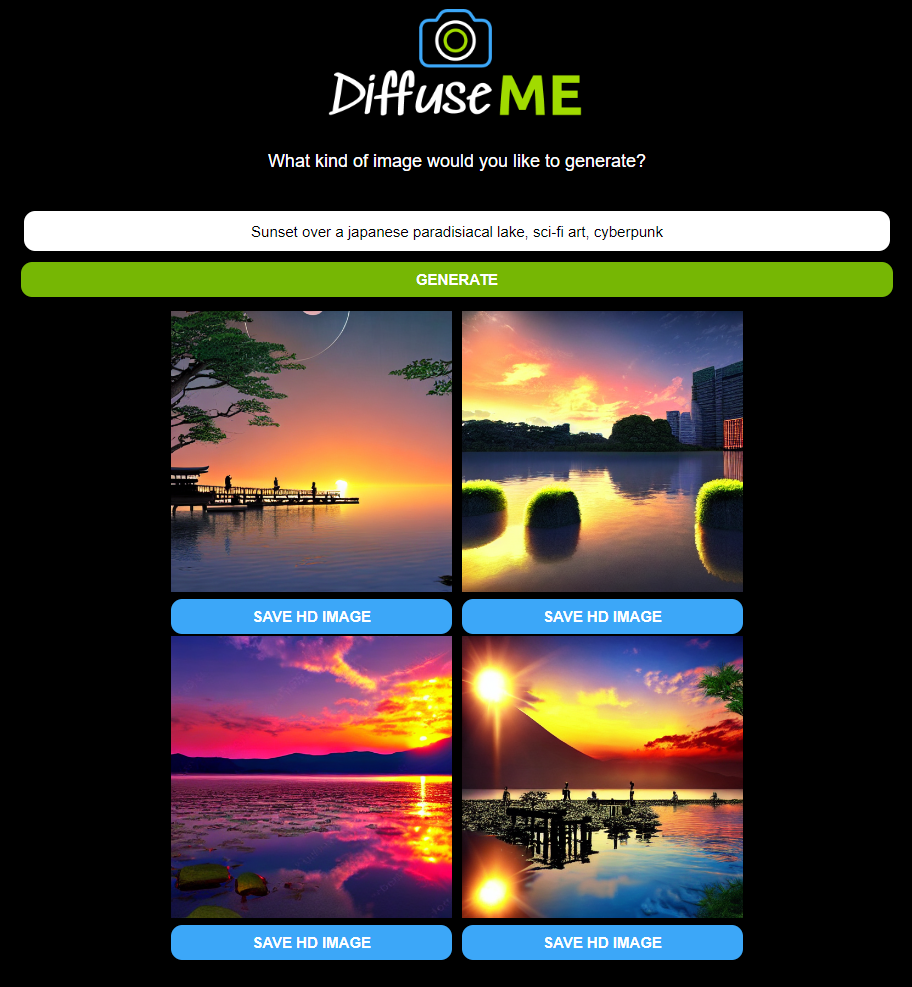
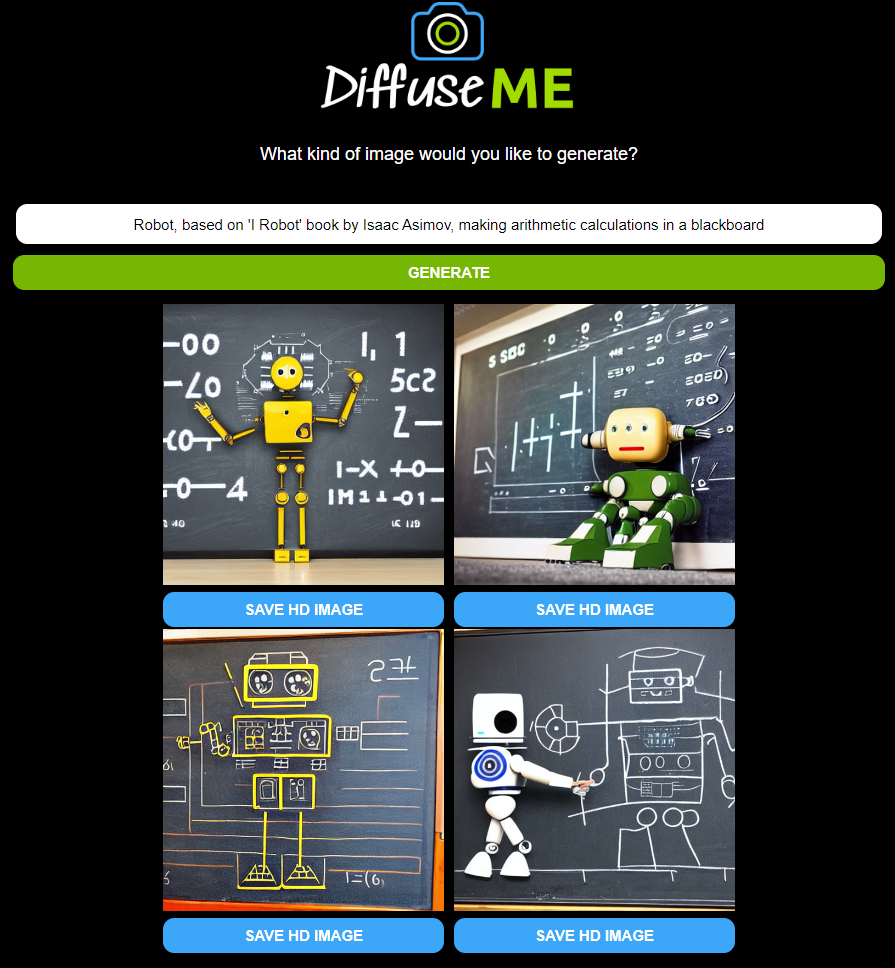
Readme fixes and additions. Dockerfile again modified for my custom local configuration

diff --git a/README.md b/README.md
@@ -13,7 +13,11 @@ The app will take in a user-provided text prompt and convert it into high-resolu
 ## Building and running
 
 - At 'starter_files' directory: docker compose up --build
-- Application will be available at <a href="http://localhost:8080" target="_blank">localhost:8080</a>
+- Application will be available at <a href="http://localhost:8000" target="_blank">localhost:8000</a>
+
+Alternatively, you can run a full image already uploaded to docker hub with this command:
+    
+docker run --gpus=all -p 8000:8000 -v ./:/app/static/images/saved dalonsogz20/diffuse_me:1.2
 
 ## Screenshot
 
